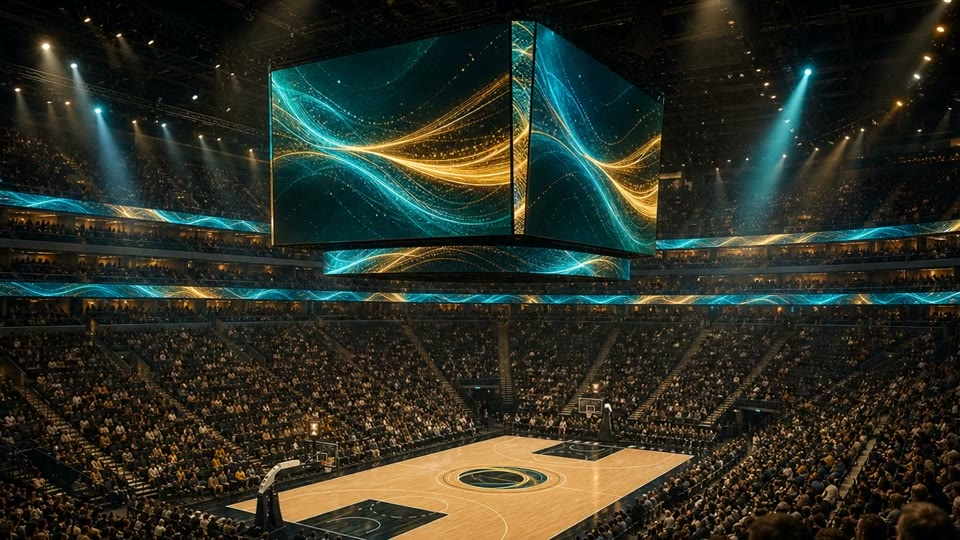
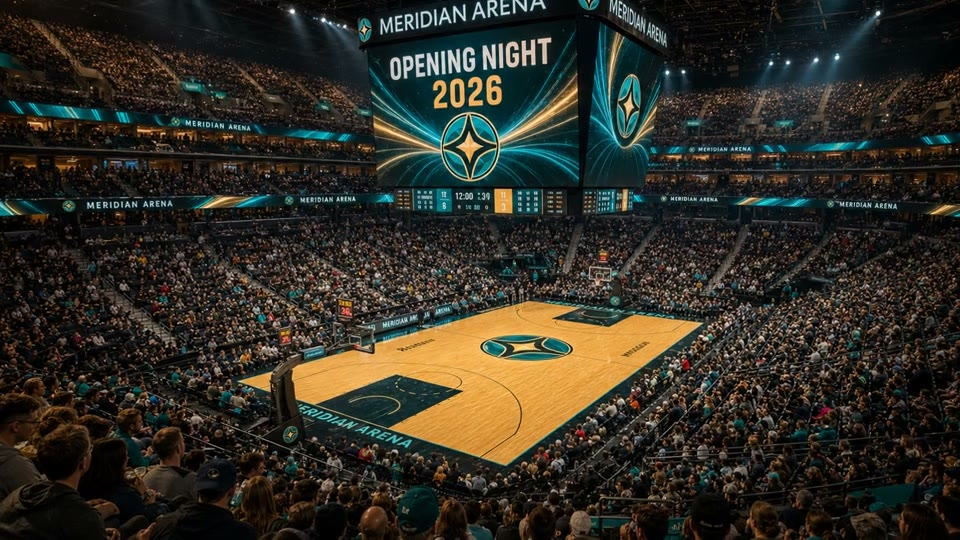
Sports & Venues hero video: clearer arena audience, fix concourse bounce, swap control room for club lounge
- Scene 1: regenerate arena bowl so the packed tiered audience is obvious; add
  fictional branding (MERIDIAN ARENA / OPENING NIGHT 2026 + abstract star
  logo) on the centerhung board and ribbon boards.
- Scene 2: re-render as a pure lateral pan (constant zoom) to remove the
  start-of-clip bounce.
- Scene 3: replace the back-of-house control room with a guest-facing premium
  club lounge (video wall + bar + stadium view + speakers) — a controllable
  A/V zone, not the industry's existing control mechanism.

diff --git a/src/data/industryDetails.ts b/src/data/industryDetails.ts
@@ -396,8 +396,8 @@ export const industryDetails: Partial<Record<IndustrySlug, IndustryDetail>> = {
     ],
   },
   'sports-venues': {
-    heroVideo: '/videos/luci-sports-arena.mp4?v=1',
-    heroPoster: '/images/industries/sports-venues/hero-arena-poster.jpg?v=1',
+    heroVideo: '/videos/luci-sports-arena.mp4?v=2',
+    heroPoster: '/images/industries/sports-venues/hero-arena-poster.jpg?v=2',
     heroImage: '/images/industries/sports-venues.jpg?v=3',
     thesis: {
       lockupName: 'Sports & Venues',
